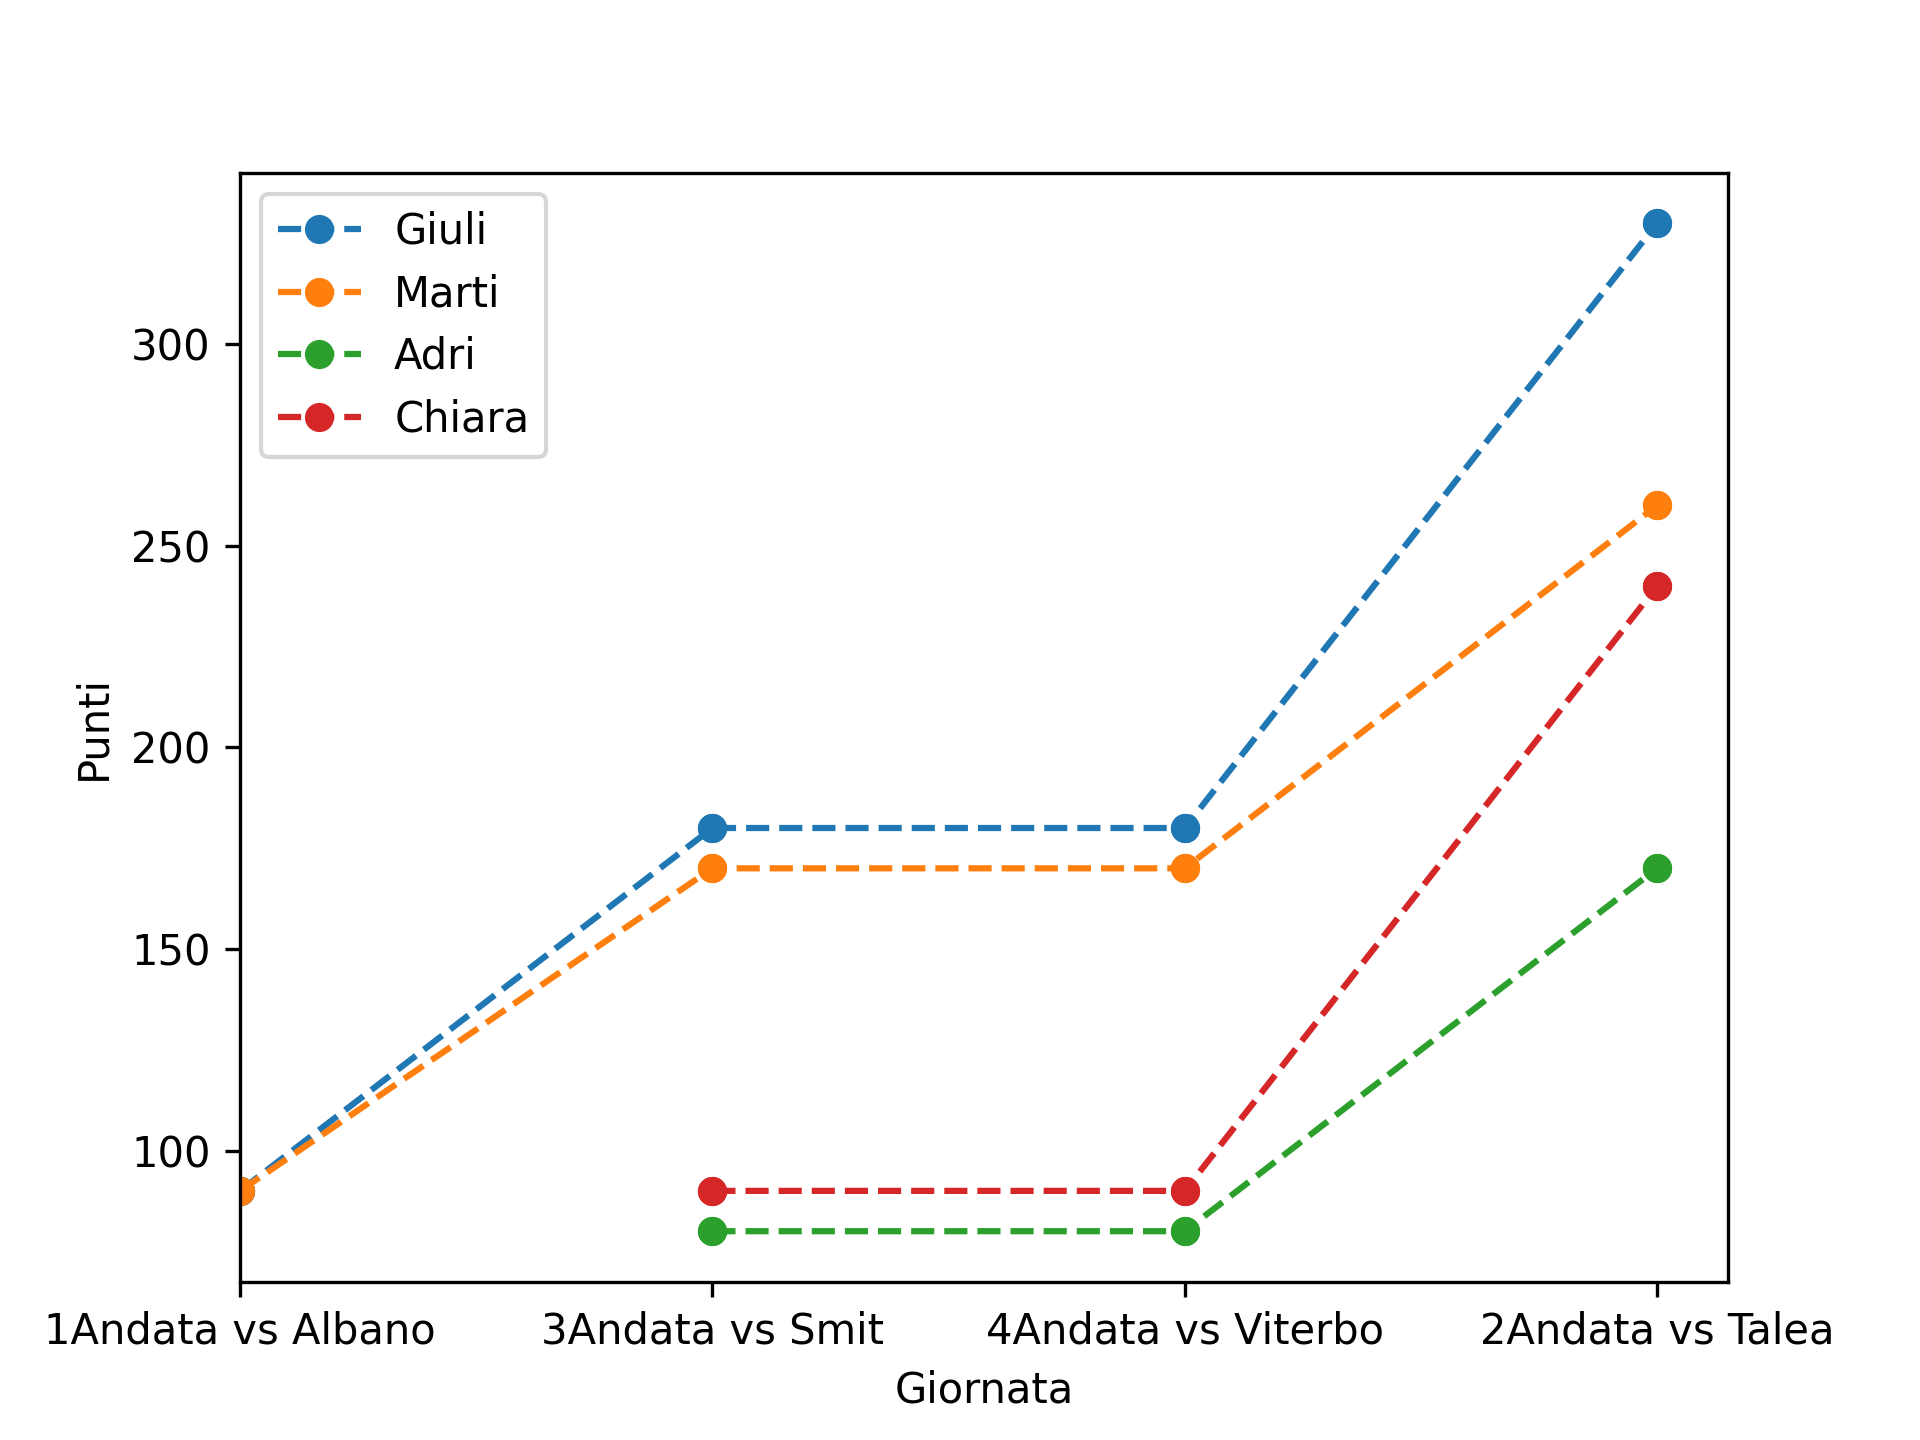
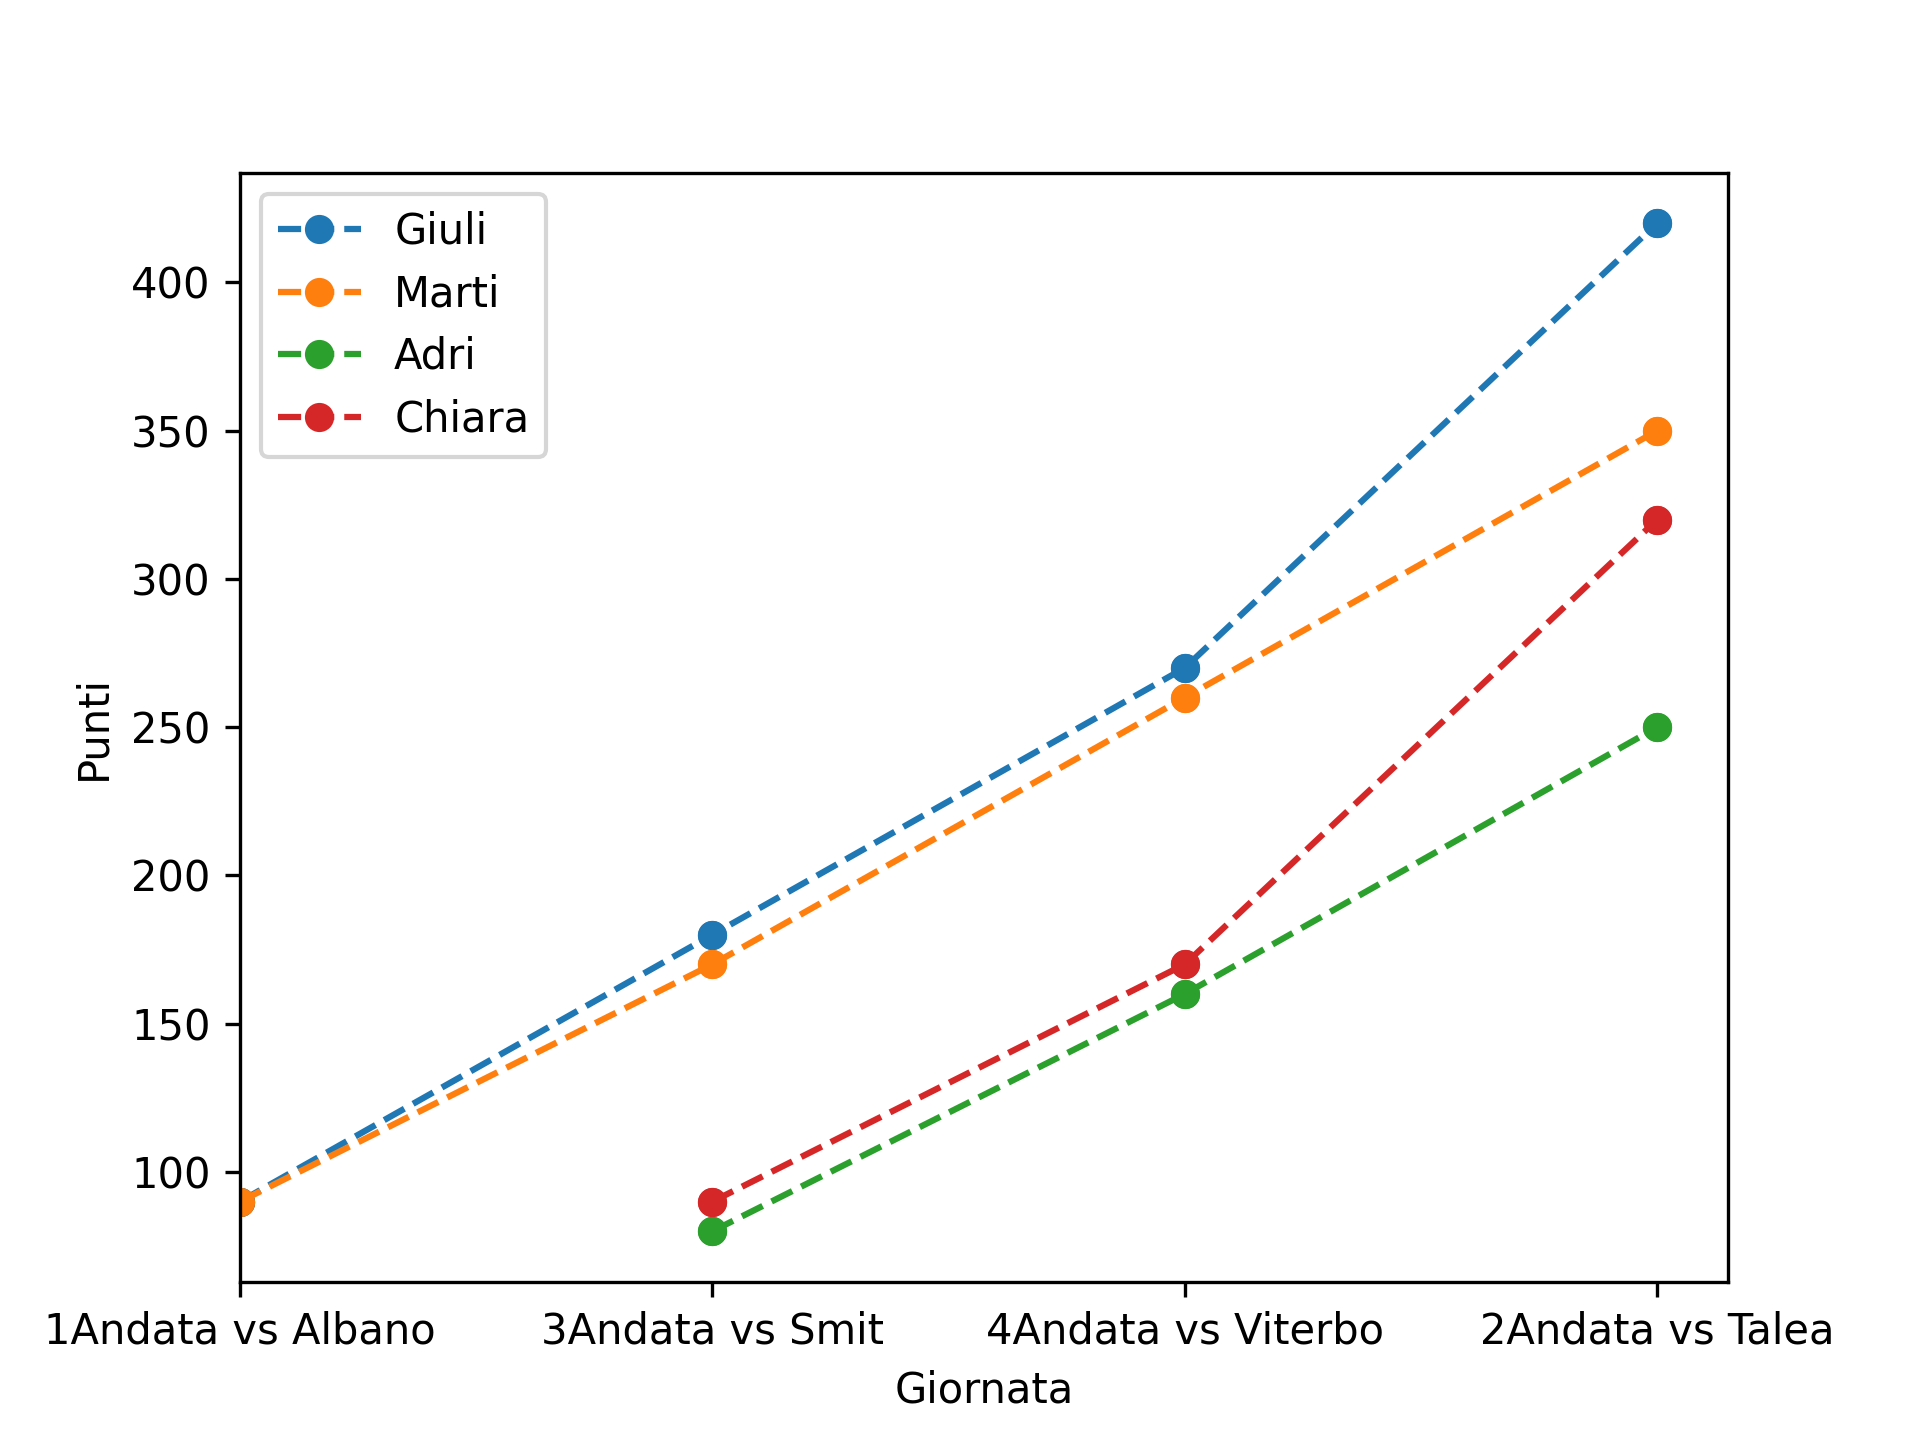
Deployed b67eb4b with MkDocs version: 1.6.1

diff --git a/Classifica/index.html b/Classifica/index.html
@@ -317,19 +317,19 @@
 <tbody>
 <tr>
 <td style="text-align: left;">Giuli</td>
-<td style="text-align: right;">330</td>
+<td style="text-align: right;">420</td>
 </tr>
 <tr>
 <td style="text-align: left;">Marti</td>
-<td style="text-align: right;">260</td>
+<td style="text-align: right;">350</td>
 </tr>
 <tr>
 <td style="text-align: left;">Chiara</td>
-<td style="text-align: right;">240</td>
+<td style="text-align: right;">320</td>
 </tr>
 <tr>
 <td style="text-align: left;">Adri</td>
-<td style="text-align: right;">170</td>
+<td style="text-align: right;">250</td>
 </tr>
 </tbody>
 </table>
